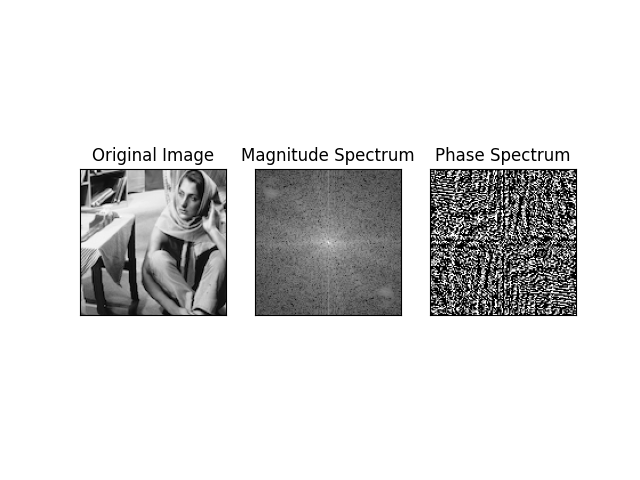
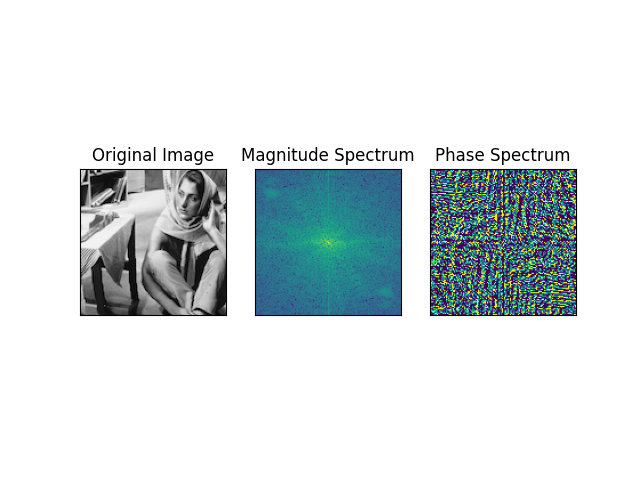
UPDATE: excersise3 code

Changed region(s): [[0.6562, 0.3438, 0.9062, 0.6562], [0.375, 0.3438, 0.625, 0.6562]]

diff --git a/test.py b/test.py
@@ -3,58 +3,82 @@ import matplotlib.pyplot as plt
 import numpy as np
 from scipy.signal import butter, filtfilt
 
-# Read the image
-img = cv2.imread("./images-project-1/lenna.bmp", cv2.IMREAD_GRAYSCALE)
+# # Read the image
+# img = cv2.imread("./images-project-1/lenna.bmp", cv2.IMREAD_GRAYSCALE)
 
-# Add Gaussian noise
-mean = 0
-std_dev = 10
-noise = np.random.normal(mean, std_dev, img.shape).astype(np.float32)
-noisy_img = img + noise
+# # Add Gaussian noise
+# mean = 0
+# std_dev = 10
+# noise = np.random.normal(mean, std_dev, img.shape).astype(np.float32)
+# noisy_img = img + noise
 
-# Apply Butterworth low-pass filters
-orders = [3, 5, 7]
-cutoff_freq = 0.1  # Adjust cutoff frequency as needed
+# # Apply Butterworth low-pass filters
+# orders = [3, 5, 7]
+# cutoff_freq = 0.1  # Adjust cutoff frequency as needed
 
-filtered_images = []
+# filtered_images = []
 
-for order in orders:
-    # Create Butterworth low-pass filter
-    b, a = butter(order, cutoff_freq, btype='low')
+# for order in orders:
+#     # Create Butterworth low-pass filter
+#     b, a = butter(order, cutoff_freq, btype='low')
 
-    # Apply filter to the frequency domain representation
-    f = np.fft.fft2(noisy_img)
-    fshift = np.fft.fftshift(f)
-    filtered_fshift = filtfilt(b, a, fshift)
+#     # Apply filter to the frequency domain representation
+#     f = np.fft.fft2(noisy_img)
+#     fshift = np.fft.fftshift(f)
+#     filtered_fshift = filtfilt(b, a, fshift)
 
-    # Perform inverse Fourier transform to obtain the filtered image in the spatial domain
-    filtered_img = np.fft.ifft2(np.fft.ifftshift(filtered_fshift)).real
+#     # Perform inverse Fourier transform to obtain the filtered image in the spatial domain
+#     filtered_img = np.fft.ifft2(np.fft.ifftshift(filtered_fshift)).real
 
-    # Clip the filtered image
-    filtered_img = np.clip(filtered_img, 0, 255)
+#     # Clip the filtered image
+#     filtered_img = np.clip(filtered_img, 0, 255)
 
-    # Store the filtered image
-    filtered_images.append(filtered_img)
+#     # Store the filtered image
+#     filtered_images.append(filtered_img)
 
-# Plotting
-plt.figure(figsize=(15, 5))
+# # Plotting
+# plt.figure(figsize=(15, 5))
 
-# Plot original image and noisy images
-plt.subplot(1, len(orders) + 2, 1)
-plt.imshow(img, cmap='gray')
-plt.title('Original Image')
-plt.axis('off')
+# # Plot original image and noisy images
+# plt.subplot(1, len(orders) + 2, 1)
+# plt.imshow(img, cmap='gray')
+# plt.title('Original Image')
+# plt.axis('off')
 
-plt.subplot(1, len(orders) + 2, 2)
-plt.imshow(noisy_img, cmap='gray')
-plt.title('Noisy Image')
-plt.axis('off')
+# plt.subplot(1, len(orders) + 2, 2)
+# plt.imshow(noisy_img, cmap='gray')
+# plt.title('Noisy Image')
+# plt.axis('off')
 
-# Plot filtered images
-for i, order in enumerate(orders):
-    plt.subplot(1, len(orders) + 2, i + 3)
-    plt.imshow(filtered_images[i], cmap='gray')
-    plt.title(f'Filtered (Order {order})')
-    plt.axis('off')
+# # Plot filtered images
+# for i, order in enumerate(orders):
+#     plt.subplot(1, len(orders) + 2, i + 3)
+#     plt.imshow(filtered_images[i], cmap='gray')
+#     plt.title(f'Filtered (Order {order})')
+#     plt.axis('off')
 
-plt.show()
+# plt.show()
+
+import cv2
+
+# Load the image
+image = cv2.imread('./images-project-1/barbara.bmp')
+
+# Method 1: Resize the image to a smaller size
+# Define the new dimensions
+new_width = 40
+new_height = 40
+# Resize the image
+resized_image = cv2.resize(image, (new_width, new_height))
+
+
+# Display the original and processed images
+cv2.imshow('Original Image', image)
+cv2.imshow('Resized Image', resized_image)
+# cv2.imshow('Compressed Image', decompressed_image)
+cv2.waitKey(0)
+cv2.destroyAllWindows()
+
+# Save the processed images
+# cv2.imwrite('resized_image.jpg', resized_image)
+cv2.imwrite('barbara_compressed.bmp', resized_image)

diff --git a/imageQuantization.py b/imageQuantization.py
@@ -122,17 +122,18 @@ def plotTransformations(caseResults):
 
 
 # import image
-try:
-    toProcessImage = Image.open("./images-project-1/barbara.bmp")
-except OSError:
-    raise ValueError("There was a problem with the input image.")
+imageArray = cv2.imread('./images-project-1/barbara.bmp', cv2.IMREAD_GRAYSCALE)
+# try:
+#     toProcessImage = Image.open("./images-project-1/barbara.bmp")
+# except OSError:
+#     raise ValueError("There was a problem with the input image.")
 
-# check if image is grayscale, if not then convert it to grayscale
-if toProcessImage.mode!='L':
-    toProcessImage=toProcessImage.convert('L')
+# # check if image is grayscale, if not then convert it to grayscale
+# if toProcessImage.mode!='L':
+#     toProcessImage=toProcessImage.convert('L')
 
-imageArray = np.array(toProcessImage)
-# print(imageArray.shape)
+# imageArray = np.array(toProcessImage)
+# # print(imageArray.shape)
 
 cases=[8,12,16,20, 40]
 caseResults=[]

diff --git a/dftLowFrequencies.py b/dftLowFrequencies.py
@@ -13,7 +13,7 @@ dft_shift = np.fft.fftshift(dft)
 magnitude_spectrum = 20 * np.log(cv2.magnitude(dft_shift[:, :, 0], dft_shift[:, :, 1]))
 plt.subplot(131), plt.imshow(image, cmap='gray')
 plt.title('Original Image'), plt.xticks([]), plt.yticks([])
-plt.subplot(132), plt.imshow(magnitude_spectrum, cmap='gray')
+plt.subplot(132), plt.imshow(magnitude_spectrum )#, cmap='gray')
 plt.title('Magnitude Spectrum'), plt.xticks([]), plt.yticks([])
 
 # Compute the phase spectrum
@@ -29,7 +29,7 @@ phase_angle_normalized = (phase_angle + np.pi) / (2 * np.pi)
 # Convert to uint8 for visualization
 phase_image_uint8 = (phase_angle_normalized * 255).astype(np.uint8)
 
-plt.subplot(133), plt.imshow(phase_image_uint8, cmap='gray')
+plt.subplot(133), plt.imshow(phase_image_uint8)#, cmap='gray')
 plt.title('Phase Spectrum'), plt.xticks([]), plt.yticks([])
 plt.savefig("./results_two/spectrum_images.png")
 plt.show()

diff --git a/dctIdctTransformation.py b/dctIdctTransformation.py
@@ -3,7 +3,6 @@ import cv2
 import matplotlib.pyplot as plt
 
 def dct(image):
-
     M, N = image.shape
     result = np.zeros((M, N), dtype=np.float32)
     for u in range(M):
